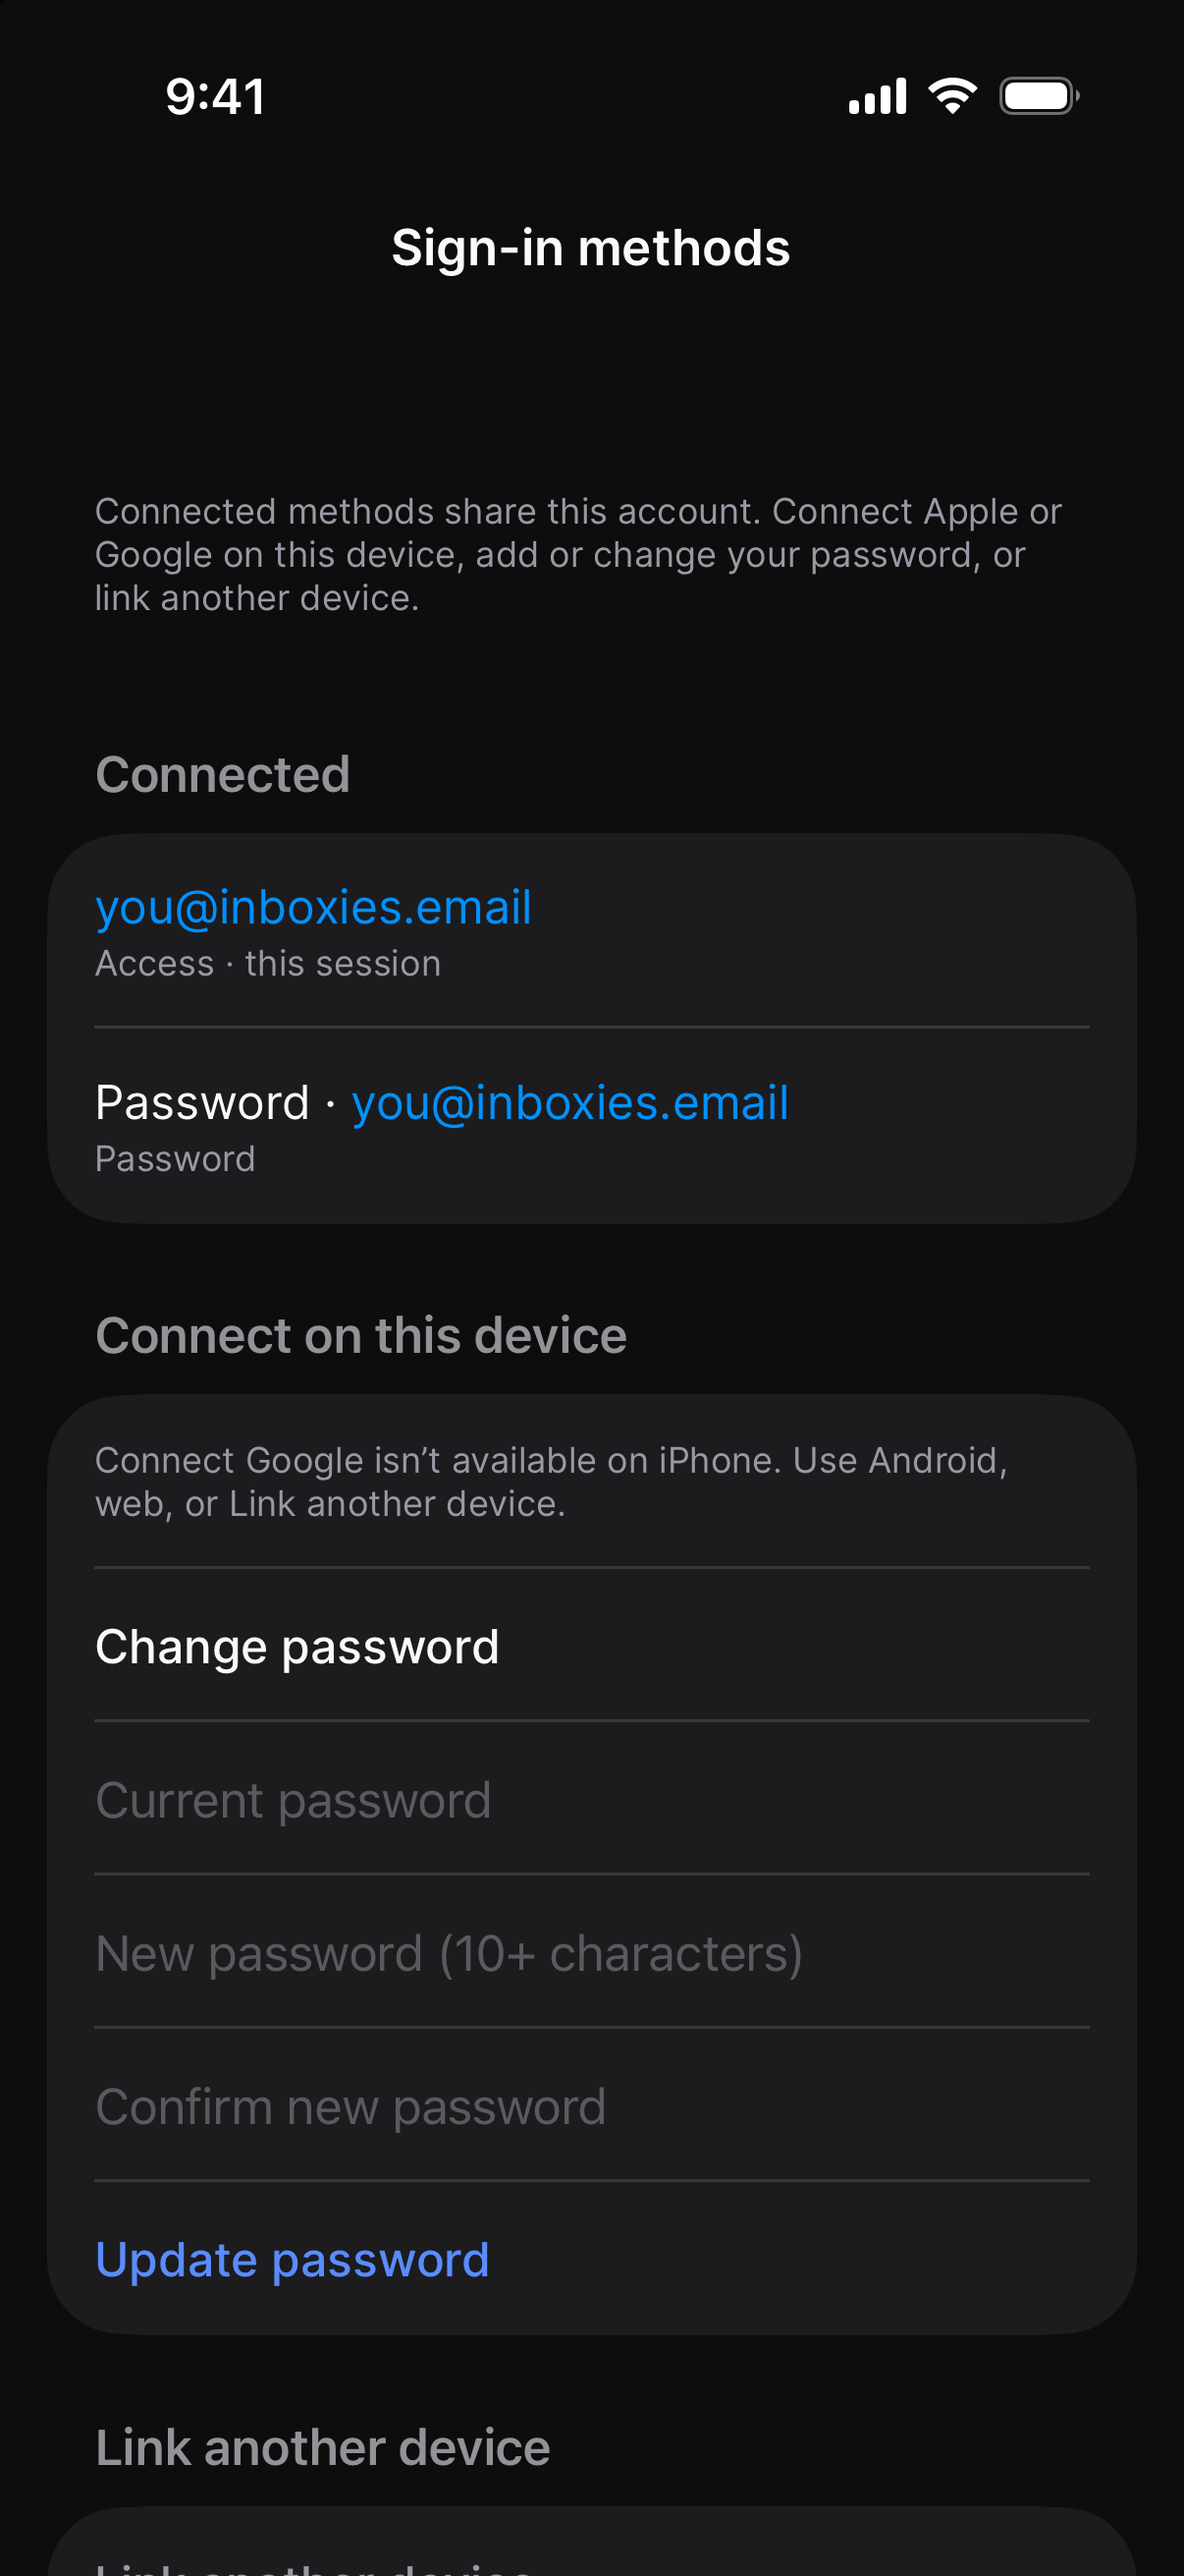
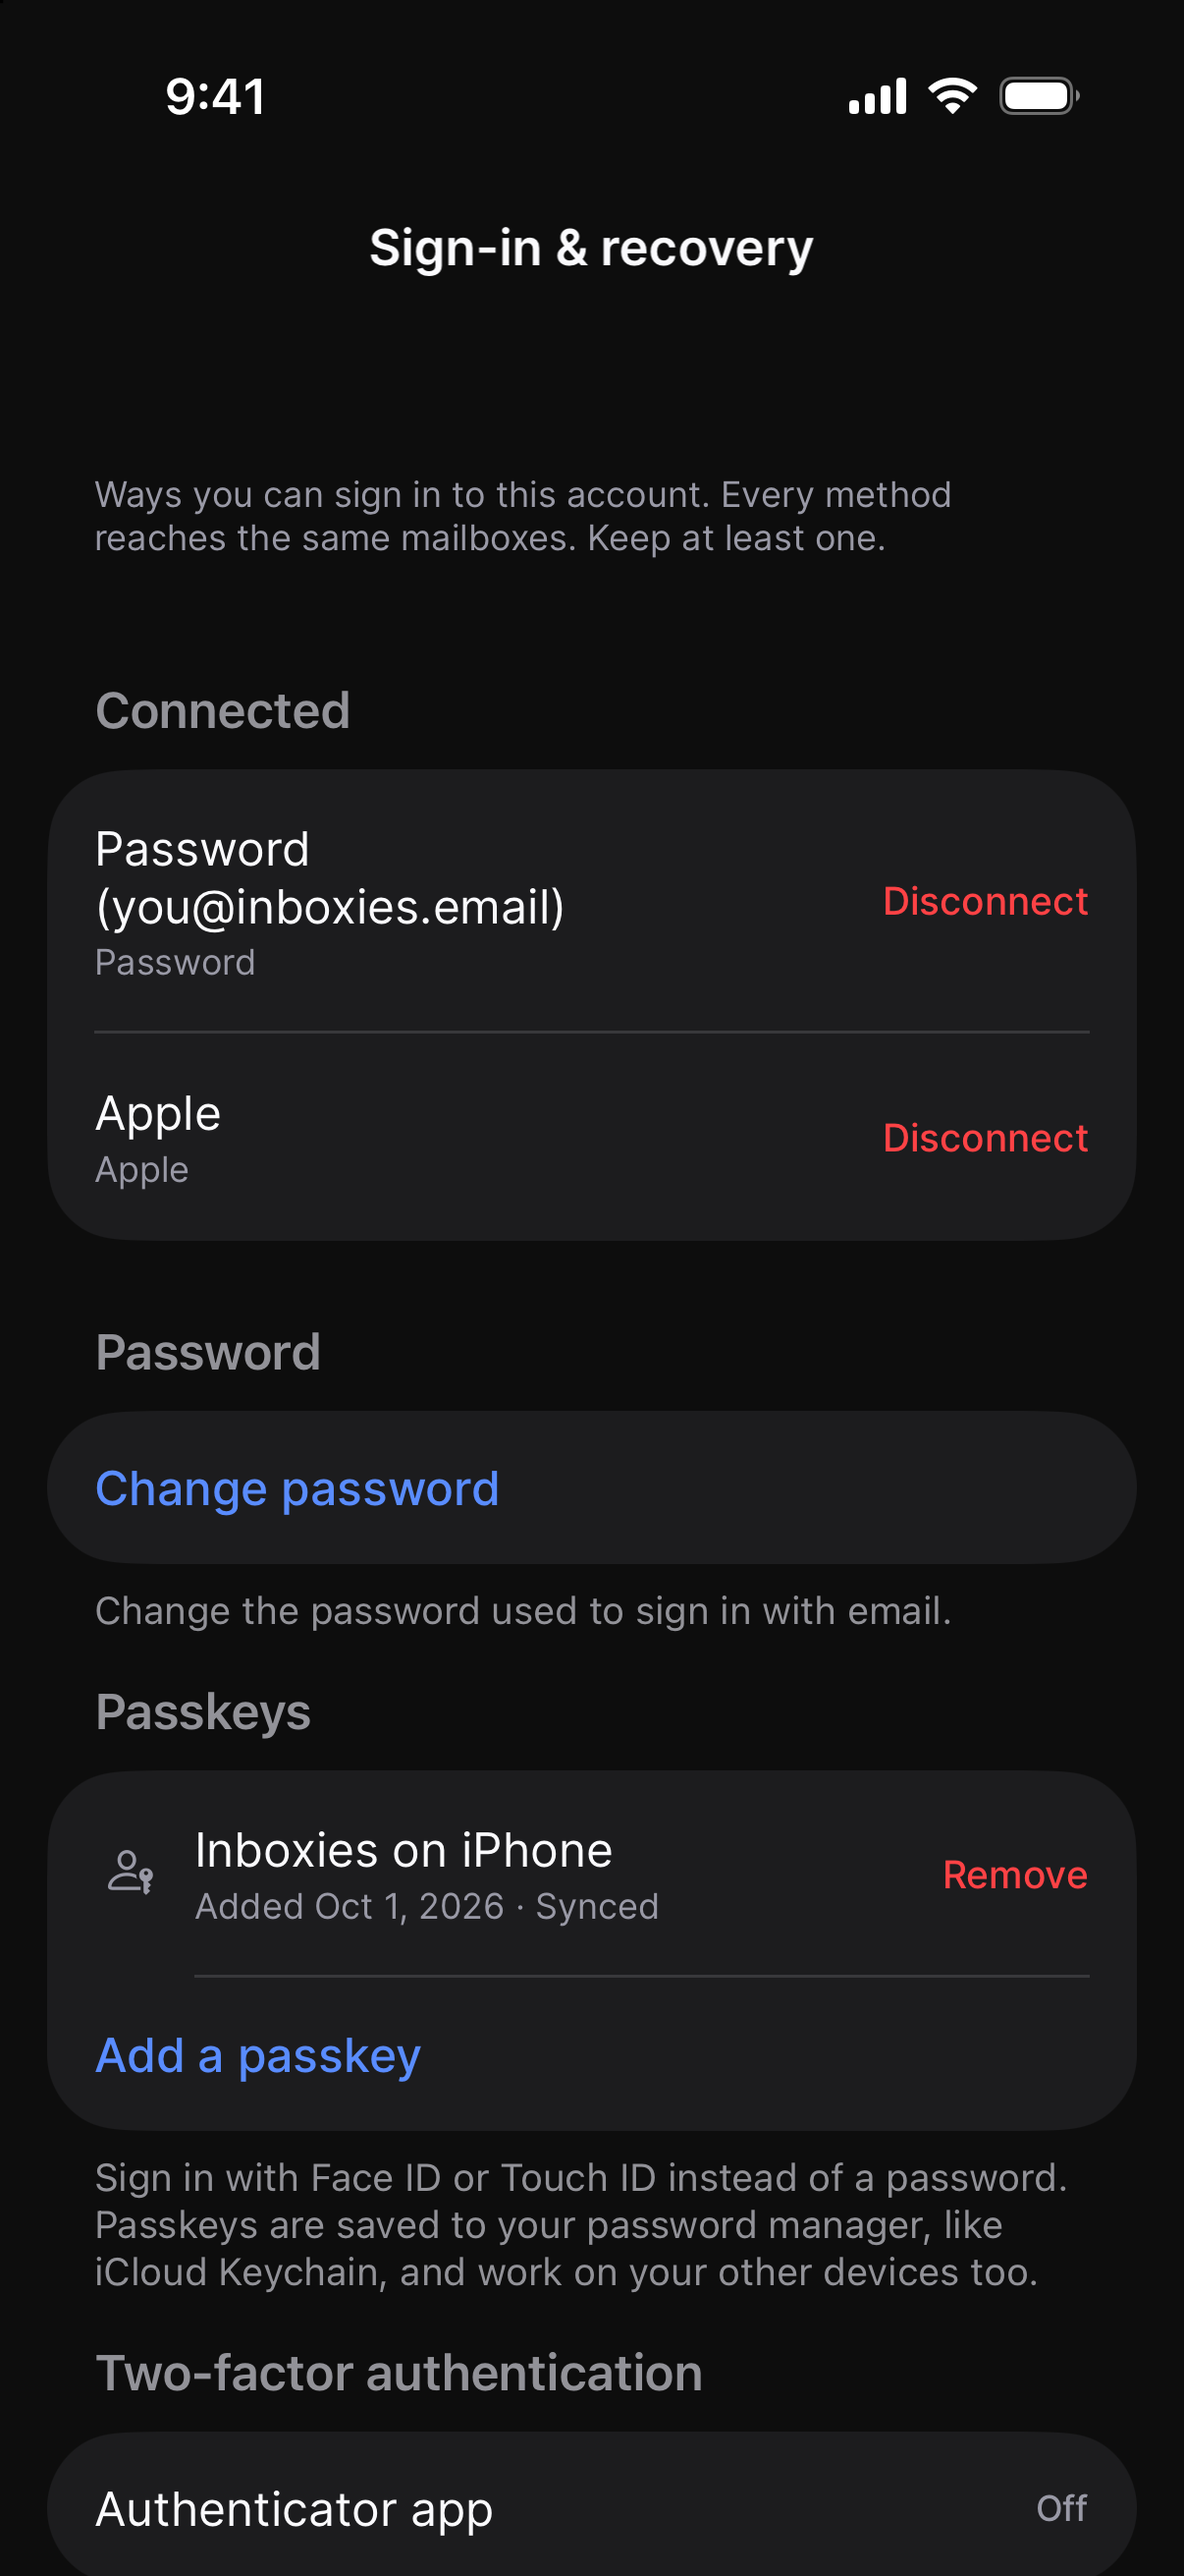
Site: re-shoot the sign-in still as Sign-in & recovery
The old still showed "Sign-in methods" with a Link another device section,
which no longer exists (link codes return 410). Re-shot from the current
iOS DEBUG app with -previewSignInMethods on an iPhone 17 Pro simulator,
light and dark, 1206×2622, status bar at 9:41: password and Apple
connected, Change password, Passkeys and Two-factor authentication.

Copied in losslessly (opaque alpha dropped, no metadata, pixels checked)
and updated the caption, alt text and manifest to match.

diff --git a/site/src/data/media.ts b/site/src/data/media.ts
@@ -68,7 +68,7 @@ export const stills: Record<StillName, { alt: string }> = {
 		alt: "Domain Admin on iPhone: DNS & Domain Configuration, a Create email button, and the domain’s mailboxes you@, ops@ and pending@.",
 	},
 	"sign-in-methods": {
-		alt: "Sign-in methods on iPhone: the methods connected to you@inboxies.email, a form to change the password, and Link another device.",
+		alt: "Sign-in & recovery on iPhone: a password and Apple connected, Change password, a saved passkey with Add a passkey, and two-factor authentication.",
 	},
 };
 
